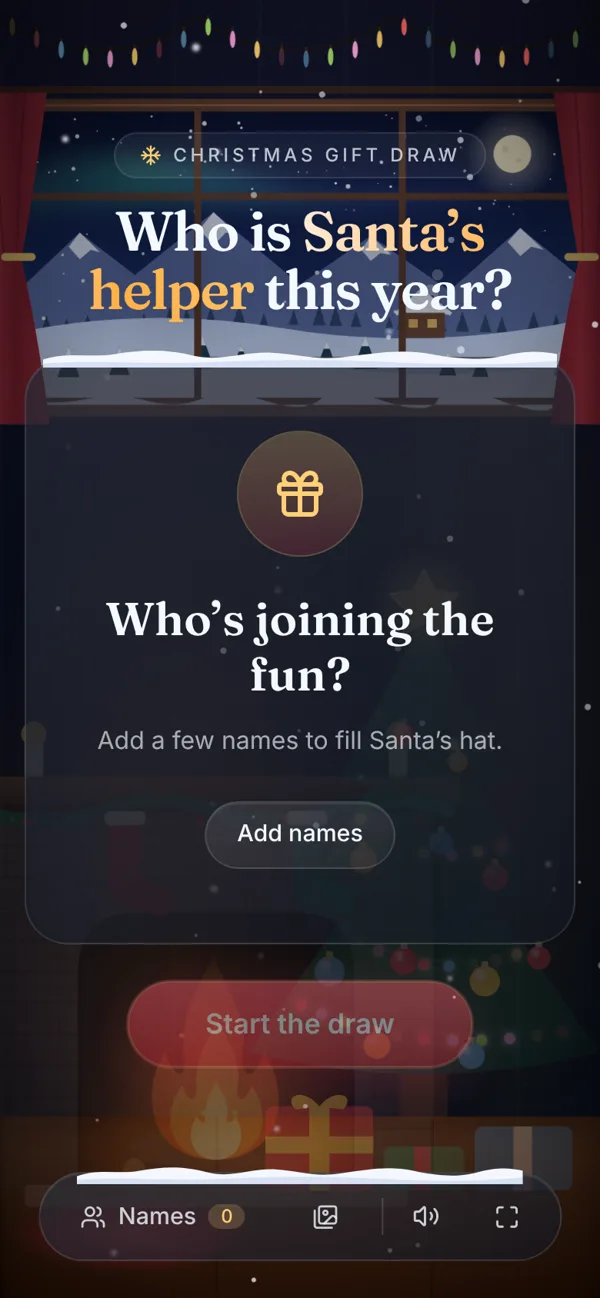
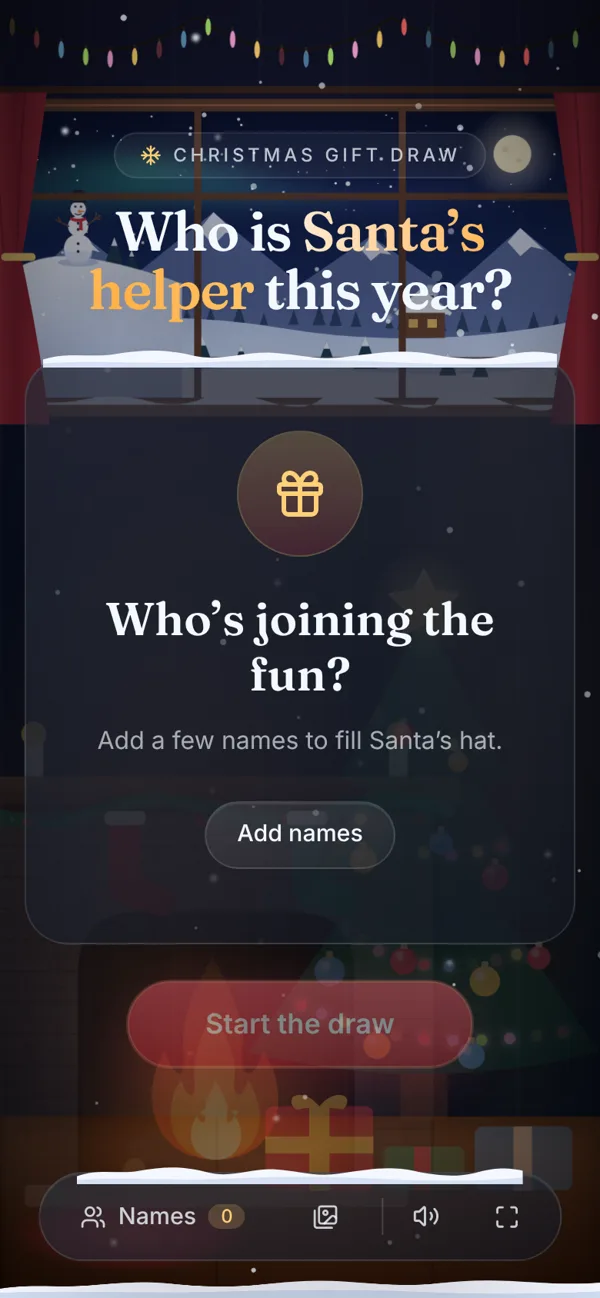
feat: waving snowman and snowplow that clears a growing snow drift
- Snowman on a snow drift in the visible part of the window: waves,
  blinks, scarf flutters
- Snow piles up along the bottom of the screen; a little snowplow with
  beacon, headlights and snow spray drives across and clears it
- Docs, changelog and screenshots updated

Claude-Session: https://claude.ai/code/session_011fpvDbVsnfPptw3xDMSioq

diff --git a/src/components/scene/SnowPlow.tsx b/src/components/scene/SnowPlow.tsx
@@ -1,0 +1,77 @@
+import { memo } from "react";
+
+/**
+ * Snow slowly piles up along the bottom edge of the screen; every so often a little
+ * snowplow drives across and clears it. Purely decorative.
+ */
+export const SnowPlow = memo(function SnowPlow() {
+  return (
+    <div
+      aria-hidden="true"
+      className="pointer-events-none fixed inset-x-0 bottom-0 z-20 h-16 overflow-hidden motion-reduce:hidden"
+    >
+      {/* Growing drift, cleared behind the plow */}
+      <svg
+        viewBox="0 0 1200 40"
+        preserveAspectRatio="none"
+        className="animate-snowdrift absolute inset-x-0 bottom-0 h-7 w-full sm:h-9"
+      >
+        <path
+          d="M0 40V22C60 12 110 20 170 16s110-10 170-4 120 8 180 2 110-10 170-6 120 10 180 4 100-8 170-4 110 6 160 2V40z"
+          fill="#f4f7ff"
+        />
+        <path d="M0 40V30c140-6 280 2 420-2s280-6 420 0 250 4 360-1V40z" fill="#c9d6f0" opacity=".8" />
+      </svg>
+
+      {/* The plow */}
+      <div className="animate-plow absolute bottom-0 left-0 h-14 w-36 sm:h-16 sm:w-40">
+        <svg viewBox="0 0 160 64" className="h-full w-full">
+          <defs>
+            <linearGradient id="plow-beam" x1="0" y1="0" x2="1" y2="0">
+              <stop offset="0" stopColor="#fff3b0" stopOpacity=".7" />
+              <stop offset="1" stopColor="#fff3b0" stopOpacity="0" />
+            </linearGradient>
+          </defs>
+          {/* Headlight beam */}
+          <path d="M126 36 L160 26 L160 52 Z" fill="url(#plow-beam)" />
+          {/* Snow spray off the blade */}
+          {[0, 1, 2, 3, 4].map((i) => (
+            <circle
+              key={i}
+              cx="140"
+              cy="52"
+              r={2 + (i % 3)}
+              fill="#fff"
+              className="animate-spray"
+              style={{ animationDelay: `${i * 0.12}s` }}
+            />
+          ))}
+          {/* Body */}
+          <rect x="18" y="30" width="96" height="20" rx="4" fill="#f2a516" />
+          <rect x="18" y="44" width="96" height="4" fill="#000" opacity=".15" />
+          <path d="M60 30 V14 Q60 10 64 10 H92 Q100 10 104 18 L110 30 Z" fill="#f2a516" />
+          <path d="M66 14 H90 Q96 14 99 20 L103 28 H66 Z" fill="#9fd3ff" />
+          <rect x="70" y="16" width="14" height="10" rx="1" fill="#ffd36b" opacity=".55" />
+          <rect x="24" y="22" width="30" height="8" rx="2" fill="#d98a0b" />
+          {/* Beacon */}
+          <rect x="74" y="6" width="10" height="4" rx="1" fill="#555" />
+          <circle cx="79" cy="5" r="4" fill="#ffb020" className="animate-beacon" />
+          {/* Blade */}
+          <path d="M114 30 L134 26 Q142 40 136 56 L114 52 Z" fill="#9aa3ad" />
+          <path d="M120 30 L134 27" stroke="#c9d0d8" strokeWidth="2" />
+          <path d="M136 56 L146 60" stroke="#ffd36b" strokeWidth="3" strokeLinecap="round" />
+          {/* Headlight */}
+          <circle cx="112" cy="36" r="3" fill="#fff6c9" />
+          {/* Wheels */}
+          {[38, 92].map((x) => (
+            <g key={x} className="animate-wheel" style={{ transformOrigin: `${x}px 52px` }}>
+              <circle cx={x} cy="52" r="10" fill="#26262e" />
+              <circle cx={x} cy="52" r="4" fill="#8a8f99" />
+              <path d={`M${x - 8} 52h16`} stroke="#3a3a44" strokeWidth="2" />
+            </g>
+          ))}
+        </svg>
+      </div>
+    </div>
+  );
+});

diff --git a/src/index.css b/src/index.css
@@ -359,3 +359,130 @@
     transform: translateY(0) scaleY(1);
   }
 }
+
+/* ---- Snowman ---- */
+.animate-wave {
+  animation: wave 2.6s ease-in-out infinite;
+}
+@keyframes wave {
+  0%,
+  55%,
+  100% {
+    transform: rotate(0deg);
+  }
+  65% {
+    transform: rotate(-28deg);
+  }
+  75% {
+    transform: rotate(6deg);
+  }
+  85% {
+    transform: rotate(-24deg);
+  }
+}
+.animate-blink {
+  animation: blink 5s infinite;
+}
+@keyframes blink {
+  0%,
+  92%,
+  100% {
+    transform: scaleY(1);
+  }
+  95% {
+    transform: scaleY(0.1);
+  }
+}
+.animate-scarf {
+  animation: scarf 1.8s ease-in-out infinite;
+}
+.origin-top {
+  transform-box: fill-box;
+  transform-origin: 50% 0;
+}
+@keyframes scarf {
+  0%,
+  100% {
+    transform: rotate(-6deg);
+  }
+  50% {
+    transform: rotate(14deg);
+  }
+}
+
+/* ---- Snow drift + snowplow (one shared 48 s cycle) ---- */
+.animate-snowdrift {
+  transform-origin: 50% 100%;
+  animation: snowdrift 48s linear -16s infinite;
+}
+@keyframes snowdrift {
+  0% {
+    transform: scaleY(0);
+    clip-path: inset(0 0 0 0);
+  }
+  75% {
+    transform: scaleY(1);
+    clip-path: inset(0 0 0 0);
+  }
+  95% {
+    transform: scaleY(1);
+    clip-path: inset(0 0 0 100%);
+  }
+  95.01%,
+  100% {
+    transform: scaleY(0);
+    clip-path: inset(0 0 0 0);
+  }
+}
+.animate-plow {
+  animation: plow 48s linear -16s infinite;
+}
+@keyframes plow {
+  0%,
+  75% {
+    transform: translateX(-11rem);
+  }
+  95% {
+    transform: translateX(calc(100vw - 1rem));
+  }
+  95.01%,
+  100% {
+    transform: translateX(110vw);
+  }
+}
+.animate-wheel {
+  animation: spin-wheel 0.5s linear infinite;
+}
+@keyframes spin-wheel {
+  to {
+    transform: rotate(360deg);
+  }
+}
+.animate-beacon {
+  animation: beacon 0.8s steps(2, jump-none) infinite;
+}
+@keyframes beacon {
+  0% {
+    opacity: 1;
+    filter: drop-shadow(0 0 6px #ffb020);
+  }
+  100% {
+    opacity: 0.25;
+    filter: none;
+  }
+}
+.animate-spray {
+  animation: spray 0.7s ease-out infinite;
+  transform-box: fill-box;
+  transform-origin: 50% 50%;
+}
+@keyframes spray {
+  0% {
+    opacity: 1;
+    transform: translate(0, 0);
+  }
+  100% {
+    opacity: 0;
+    transform: translate(14px, -26px);
+  }
+}

diff --git a/src/components/scene/PanoramaWindow.tsx b/src/components/scene/PanoramaWindow.tsx
@@ -1,6 +1,7 @@
 import { memo } from "react";
 import { seeded } from "@/lib/seeded";
 import { SantaSleigh } from "./SantaSleigh";
+import { Snowman } from "./Snowman";
 
 const rand = seeded(11);
 
@@ -63,6 +64,11 @@ export const PanoramaWindow = memo(function PanoramaWindow({ className }: { clas
           <stop offset="0" stopColor="#fff" stopOpacity=".55" />
           <stop offset="1" stopColor="#fff" stopOpacity="0" />
         </radialGradient>
+        <linearGradient id="pw-drift" x1="0" y1="0" x2="0" y2="1">
+          <stop offset="0" stopColor="#f4f7ff" />
+          <stop offset=".35" stopColor="#d9e2f5" />
+          <stop offset="1" stopColor="#9fb0d6" />
+        </linearGradient>
         <clipPath id="pw-glass">
           <rect x="60" y="34" width="780" height="380" rx="10" />
         </clipPath>
@@ -170,6 +176,22 @@ export const PanoramaWindow = memo(function PanoramaWindow({ className }: { clas
             <path d={`M${p.x} ${p.y - p.h}l${-p.h * 0.12} ${p.h * 0.32}h${p.h * 0.24}z`} fill="#eef3ff" />
           </g>
         ))}
+
+        {/* Snow drift with a snowman, in the part of the view left of the stage */}
+        {[
+          [214, 236, 34],
+          [236, 244, 26],
+        ].map(([x, y, h]) => (
+          <g key={x}>
+            <path d={`M${x} ${y - h}l${-h * 0.36} ${h}h${h * 0.72}z`} fill="#1d3b4a" />
+            <path d={`M${x} ${y - h}l${-h * 0.12} ${h * 0.32}h${h * 0.24}z`} fill="#eef3ff" />
+          </g>
+        ))}
+        <path d="M60 262 Q110 220 170 228 T300 262 V414 H60 Z" fill="url(#pw-drift)" />
+        <path d="M60 262 Q110 220 170 228 T300 262" fill="none" stroke="#ffffff" strokeOpacity=".8" strokeWidth="2" />
+        <g transform="translate(168 232)">
+          <Snowman />
+        </g>
 
         {/* Falling snow */}
         {FLAKES.map((f, i) => (

diff --git a/src/components/scene/Snowman.tsx b/src/components/scene/Snowman.tsx
@@ -1,0 +1,36 @@
+/** A small snowman on a snow drift (≈ 70 × 90 user units, base at y = 0) that waves and blinks. */
+export function Snowman() {
+  return (
+    <g>
+      <ellipse cx="0" cy="2" rx="26" ry="5" fill="#9fb2d9" opacity=".6" />
+      {/* Body */}
+      <circle cx="0" cy="-16" r="18" fill="#f7f9ff" />
+      <circle cx="0" cy="-44" r="13" fill="#f7f9ff" />
+      <circle cx="0" cy="-66" r="10" fill="#f7f9ff" />
+      <path d="M-18 -12a18 18 0 0 0 36 0" fill="#d6e0f5" opacity=".7" />
+      {/* Buttons */}
+      {[-48, -40, -22, -12].map((y) => (
+        <circle key={y} cx="0" cy={y} r="1.8" fill="#2b2b33" />
+      ))}
+      {/* Face */}
+      <g className="animate-blink origin-center">
+        <circle cx="-3.6" cy="-69" r="1.5" fill="#2b2b33" />
+        <circle cx="3.6" cy="-69" r="1.5" fill="#2b2b33" />
+      </g>
+      <path d="M0 -65l10 2.2-10 1.8z" fill="#f08a2c" />
+      <path d="M-4 -60q4 3 8 0" fill="none" stroke="#2b2b33" strokeWidth="1.2" strokeLinecap="round" />
+      {/* Scarf */}
+      <path d="M-10 -56q10 5 20 0v4q-10 5-20 0z" fill="#c62f3b" />
+      <path d="M5 -53l3 14h-5l-1-13z" fill="#c62f3b" className="animate-scarf origin-top" />
+      {/* Hat */}
+      <rect x="-11" y="-77" width="22" height="3" rx="1.5" fill="#22222a" />
+      <rect x="-7" y="-90" width="14" height="14" rx="2" fill="#22222a" />
+      <rect x="-7" y="-80" width="14" height="3" fill="#2f7a55" />
+      {/* Arms – the right one waves */}
+      <path d="M-12 -44l-16-8m6 3l-3-6" stroke="#6b4630" strokeWidth="2" strokeLinecap="round" fill="none" />
+      <g className="animate-wave" style={{ transformOrigin: "12px -46px" }}>
+        <path d="M12 -46l16-12m-6 4l1-7m-1 7l6 1" stroke="#6b4630" strokeWidth="2" strokeLinecap="round" fill="none" />
+      </g>
+    </g>
+  );
+}

diff --git a/src/components/ChristmasGiftGenerator.tsx b/src/components/ChristmasGiftGenerator.tsx
@@ -14,6 +14,7 @@ import { cn } from "@/lib/utils";
 import { DrawStage } from "./DrawStage";
 import { CozyRoom } from "./scene/CozyRoom";
 import { Snowfall } from "./scene/Snowfall";
+import { SnowPlow } from "./scene/SnowPlow";
 import { SnowCap } from "./SnowCap";
 import { SetupSheet, type SetupTab } from "./SetupSheet";
 
@@ -65,6 +66,7 @@ export function ChristmasGiftGenerator() {
     <div className="relative flex min-h-dvh flex-col">
       <CozyRoom dimmed={setupOpen} />
       <Snowfall />
+      <SnowPlow />
 
       <main
         className={cn(

diff --git a/docs/CONFIGURATION.md b/docs/CONFIGURATION.md
@@ -23,15 +23,17 @@ Alle `*.mp3`-Dateien in `src/assets/sounds/` werden beim Build automatisch einge
 
 Das Wohnzimmer ist vollständig in Code gezeichnet (kein Bild-Asset) und liegt in `src/components/scene/`:
 
-| Datei                | Inhalt                                                        |
-| -------------------- | ------------------------------------------------------------- |
-| `CozyRoom.tsx`       | Komposition: Wand, Boden, Teppich, Lichtstimmung, Vignette    |
-| `Fireplace.tsx`      | Kamin mit Flammen, Glut, Kerzen, Strümpfen                    |
-| `ChristmasTree.tsx`  | Baum mit Stern, Lichterkette, Kugeln, Geschenken              |
-| `PanoramaWindow.tsx` | Panoramafenster: Polarlicht, Mond, Berge, Wald, Hütte, Schnee |
-| `SantaSleigh.tsx`    | Weihnachtsmann mit Rentierschlitten (Flugbahn in `index.css`) |
-| `Snowfall.tsx`       | Schneefall über der ganzen Seite                              |
-| `StringLights.tsx`   | Lichterkette unter der Decke                                  |
+| Datei                | Inhalt                                                           |
+| -------------------- | ---------------------------------------------------------------- |
+| `CozyRoom.tsx`       | Komposition: Wand, Boden, Teppich, Lichtstimmung, Vignette       |
+| `Fireplace.tsx`      | Kamin mit Flammen, Glut, Kerzen, Strümpfen                       |
+| `ChristmasTree.tsx`  | Baum mit Stern, Lichterkette, Kugeln, Geschenken                 |
+| `PanoramaWindow.tsx` | Panoramafenster: Polarlicht, Mond, Berge, Wald, Hütte, Schnee    |
+| `SantaSleigh.tsx`    | Weihnachtsmann mit Rentierschlitten (Flugbahn in `index.css`)    |
+| `Snowfall.tsx`       | Schneefall über der ganzen Seite                                 |
+| `Snowman.tsx`        | Winkender, blinzelnder Schneemann mit wehendem Schal             |
+| `SnowPlow.tsx`       | Schneewehe am unteren Rand + Räumwagen (gemeinsamer 48-s-Zyklus) |
+| `StringLights.tsx`   | Lichterkette unter der Decke                                     |
 
 Animationen (`flame`, `ember`, `twinkle`, `flicker` …) sind in `src/index.css` unter `@theme` definiert und werden bei `prefers-reduced-motion` automatisch angehalten.
 

diff --git a/README.md b/README.md
@@ -36,6 +36,7 @@
 
 - 🔥 **Cozy Winter Wonderland** – animierter Kamin mit Glut und Kerzen, geschmückter Baum mit Lichterkette, großes Panoramafenster mit Bergen, Polarlicht, Hütte und Schneefall – komplett als eigene SVG/CSS-Illustration.
 - 🛷 **Weihnachtsmann** – fliegt regelmäßig mit seinem Rentierschlitten am Fenster vorbei.
+- ⛄ **Schneemann & Schneepflug** – ein winkender Schneemann im Fenster; am Bildschirmrand sammelt sich Schnee, den ab und zu ein kleiner Räumwagen wegschiebt.
 - 📲 **Offline-App (PWA)** – installierbar auf Desktop, Android und iOS; nach dem ersten Besuch komplett ohne Internet nutzbar.
 - 🎲 **Faire Auslosung** – Web Crypto API mit Rejection Sampling, kein Modulo-Bias.
 - 🔁 **Runden** – Gezogene landen unter „Already drawn“; „New round“ legt alle zurück in den Hut.

diff --git a/CHANGELOG.md b/CHANGELOG.md
@@ -13,6 +13,8 @@ Alle relevanten Änderungen werden hier dokumentiert. Format nach [Keep a Change
 - Schriften Fraunces und Inter (selbst gehostet).
 - Großes Panoramafenster mit Vorhängen, Polarlicht, Sternschnuppen, Bergen, Tannenwald, Hütte mit Rauch und Schneefall.
 - Weihnachtsmann mit Rentierschlitten, der regelmäßig vorbeifliegt.
+- Winkender Schneemann auf einer Schneewehe im Fenster.
+- Schneepflug: Am unteren Bildschirmrand wächst eine Schneewehe, die ein Räumwagen regelmäßig wegschiebt.
 - Schneefall über der ganzen Seite; Schnee, der sich auf Bühne und Werkzeugleiste setzt.
 - Offline-App (PWA): Manifest, Icons, eigener Service Worker mit Precache, „Install“-Button und Offline-Anzeige.
 

diff --git a/docs/ARCHITECTURE.md b/docs/ARCHITECTURE.md
@@ -34,7 +34,7 @@ src/
 │   ├── ParticipantsPanel.tsx       # Hut, bereits gezogen, Import/Export
 │   ├── SlideshowPanel.tsx          # Fotos hinzufügen/entfernen
 │   ├── ErrorBoundary.tsx
-│   ├── scene/                      # CozyRoom, Fireplace, ChristmasTree, PanoramaWindow, SantaSleigh, Snowfall, StringLights
+│   ├── scene/                      # CozyRoom, Fireplace, ChristmasTree, PanoramaWindow, SantaSleigh, Snowman, SnowPlow, Snowfall, StringLights
 │   └── ui/                         # Button, Input, Sheet (Radix Dialog)
 ├── hooks/
 │   ├── useParticipants.ts      # Hut + gezogene Namen + Runden, Persistenz, Import/Export
